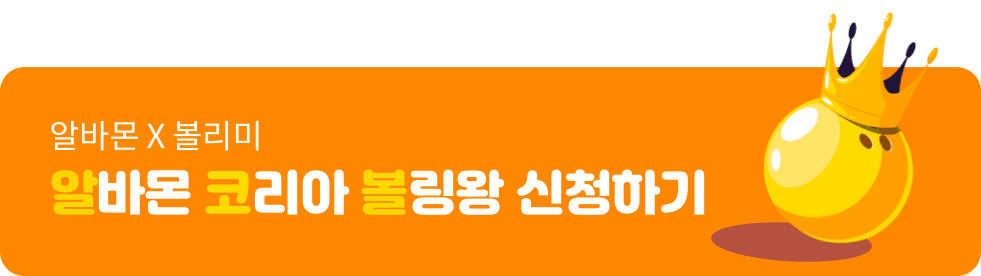
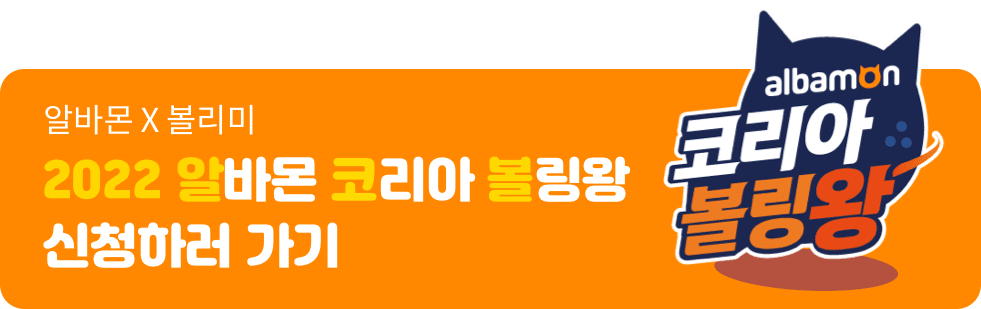
[BOLIMI] 알코볼 배너 S3 추가 및 기타 이슈사항 수정

diff --git a/src/Containers/Albamon/RegistScreen/index.tsx b/src/Containers/Albamon/RegistScreen/index.tsx
@@ -42,8 +42,7 @@ const RegistScreen = ({ route }: PropTypes) => {
     permissionCheck = false,
   } = useSelector((state: AlbamonState) => state.albamon);
 
-  const [gender, setGender] = useState('F');
-  // const [agreement, setAgreement] = useState<boolean>(false);
+  const [gender, setGender] = useState('');
   const [clubName, setClubName] = useState('');
   const [placeName, setPlaceName] = useState('');
   const [name, setName] = useState('');
@@ -65,12 +64,13 @@ const RegistScreen = ({ route }: PropTypes) => {
     setPlaceName(placeDetailName || '');
     setName(userInfo?.username || '');
     onChangePhoneNumber(userInfo?.mobile || '');
+    return () => {
+      dispatch(AlbamonActions.fetchAlbamonReducer({ type: 'permissionCheck', data: false }));
+    };
   }, []);
 
   useEffect(() => {
-    // Keyboard.addListener('keyboardDidShow', () => console.log('show'));
     Keyboard.addListener('keyboardDidHide', () => focusOut());
-    dispatch(AlbamonActions.fetchCompetitionsClubSearch({ query: '' }));
     dispatch(AlbamonActions.fetchCompetitionsPlaceSearch({ query: '' }));
   }, []);
 
@@ -102,7 +102,6 @@ const RegistScreen = ({ route }: PropTypes) => {
       ref_input[index].current?.focus();
     }
   };
-
   // 클럽명 클리어버튼
   let clubNameClearBox: any = null;
   if (clubName !== '' && focusIndex === 0) {
@@ -121,19 +120,33 @@ const RegistScreen = ({ route }: PropTypes) => {
 
   // 참가 볼링장 클리어버튼
   let placeNameClearBox: any = null;
-  if (placeName !== '' && focusIndex === 1) {
-    placeNameClearBox = (
-      <CustomButton onPress={() => onChangePlaceName('')} hitSlop={7}>
-        <View style={{ width: 16, height: 16, marginTop: Platform.OS === 'android' ? 7.5 : 0 }}>
-          <FastImage
-            style={{ width: '100%', height: '100%' }}
-            source={require('@/Assets/Images/Search/icTxtDel.png')}
-            resizeMode={FastImage.resizeMode.cover}
-          />
-        </View>
-      </CustomButton>
-    );
-  }
+
+  placeNameClearBox = (
+    <CustomButton
+      onPress={() => {
+        if (focusIndex === 1) {
+          focusOut();
+        } else {
+          onFocus(1);
+        }
+      }}
+      hitSlop={7}
+    >
+      <View style={{ width: 24, height: 24 }}>
+        <FastImage
+          style={{ width: '100%', height: '100%' }}
+          source={
+            focusIndex === 1
+              ? require('@/Assets/Images/Arrow/icArrowUp.png')
+              : placeName === ''
+              ? require('@/Assets/Images/Arrow/icArrowDwGray.png')
+              : require('@/Assets/Images/Arrow/icArrowDw.png')
+          }
+          resizeMode={FastImage.resizeMode.cover}
+        />
+      </View>
+    </CustomButton>
+  );
 
   // 선수이름 클리어 버튼
   const onClearName = () => {
@@ -182,6 +195,7 @@ const RegistScreen = ({ route }: PropTypes) => {
 
   const selectPlaceName = (item: string) => {
     setPlaceName(item);
+    focusOut();
     Keyboard.dismiss();
   };
 
@@ -205,6 +219,10 @@ const RegistScreen = ({ route }: PropTypes) => {
   const onChangeClubName = (text: string) => {
     setClubName(text);
     debounceFuncClub.current(text);
+    console.log('aklshvhasdv;asd', text);
+    if (text === '') {
+      dispatch(AlbamonActions.fetchAlbamonReducer({ type: 'competitionClubSearchList', data: [] }));
+    }
   };
 
   const onChangePlaceName = (text: string) => {
@@ -218,7 +236,7 @@ const RegistScreen = ({ route }: PropTypes) => {
       const params = {
         query: text,
       };
-      dispatch(AlbamonActions.fetchCompetitionsClubSearch(params));
+      if (text !== '') dispatch(AlbamonActions.fetchCompetitionsClubSearch(params));
     }, 500),
   );
   console.log(competitionClubSearchList);
@@ -508,7 +526,7 @@ const RegistScreen = ({ route }: PropTypes) => {
                               width: width - 48,
                               height: 134,
                               left: 24,
-                              top: 222,
+                              top: 225,
                               // borderWidth: 1,
                               borderBottomWidth: 1,
                               borderLeftWidth: 1,
@@ -630,7 +648,9 @@ const RegistScreen = ({ route }: PropTypes) => {
                             borderColor: focusIndex === 1 ? Color.Primary1000 : Color.Gray300,
                             borderRadius: 3,
                             paddingHorizontal: 12,
-                            paddingVertical: Platform.OS === 'ios' ? 15 : 7.5,
+                            // paddingVertical: Platform.OS === 'ios' ? 14 : 7,
+                            height: 48,
+                            alignItems: 'center',
                             marginTop: 8,
                             flexDirection: 'row',
                             backgroundColor: 'white',
@@ -976,5 +996,4 @@ const RegistScreen = ({ route }: PropTypes) => {
     </View>
   );
 };
-
 export default RegistScreen;

diff --git a/src/Containers/Albamon/AlbamonDetailScreen/index.tsx b/src/Containers/Albamon/AlbamonDetailScreen/index.tsx
@@ -1,21 +1,25 @@
 import React, { useEffect } from 'react';
-import { View, Text, FlatList } from 'react-native';
+import { View, Text, FlatList, Platform, useWindowDimensions } from 'react-native';
 import FastImage from 'react-native-fast-image';
 import { connect, useDispatch, useSelector } from 'react-redux';
 import CustomText from '@/Components/CustomText';
 import Header from '@/Components/Header';
-import { Color } from '@/Assets/Color';
+import { Color, Opacity } from '@/Assets/Color';
 import CustomButton from '@/Components/CustomButton';
 import { CommonState } from '@/Stores/Common/InitialState';
 import { navigate } from '@/Services/NavigationService';
 import { AuthState } from '@/Stores/Auth/InitialState';
 import AlbamonActions from '@/Stores/Albamon/Actions';
 import AuthActions from '@/Stores/Auth/Actions';
+import { numberFormat } from '@/Components/Function';
+import { AlbamonState } from '@/Stores/Albamon/InitialState';
 
 const AlbamonDetailScreen = () => {
   const dispatch = useDispatch();
+  const { width } = useWindowDimensions();
   const { heightInfo } = useSelector((state: CommonState) => state.common);
   const { userInfo, userIdx } = useSelector((state: AuthState) => state.auth);
+  const { competitionsRegistInfo } = useSelector((state: AlbamonState) => state.albamon);
 
   useEffect(() => {
     if (userIdx) {
@@ -34,11 +38,23 @@ const AlbamonDetailScreen = () => {
   console.log('userInfo?.competitionsYn : ', userInfo);
 
   return (
-    <View style={{ flex: 1, backgroundColor: Color.White }}>
-      <Header type={'back'} text={'알바몬 코리아 볼링왕'} />
+    <View style={{ flex: 1, backgroundColor: Color.Point1000 }}>
+      <Header type={'back'} text={'2022 알바몬 코리아 볼링왕'} />
       <FlatList
         data={[0]}
-        renderItem={({ item, index }) => <View></View>}
+        renderItem={({ item, index }) => (
+          <View>
+            <View style={{ width, height: (width / 375) * 724 }}>
+              <FastImage
+                style={{ width: '100%', height: '100%', borderRadius: 5 }}
+                source={{
+                  uri: 'https://s3.ap-northeast-2.amazonaws.com/cdn.bolimi.kr/bolimi/static/event/albamon/bannerDetail%403x.png',
+                }}
+                resizeMode={FastImage.resizeMode.cover}
+              />
+            </View>
+          </View>
+        )}
         keyExtractor={(item, index) => index.toString()}
         initialNumToRender={2}
         maxToRenderPerBatch={1}
@@ -55,7 +71,7 @@ const AlbamonDetailScreen = () => {
           marginBottom: heightInfo.statusHeight,
         }}
       >
-        {userInfo?.competitionsYn === 'Y' || !userIdx ? (
+        {userInfo?.competitionsYn === 'N' || !userIdx ? (
           <CustomButton
             onPress={() => onPressRegist()}
             style={{

diff --git a/src/Containers/Albamon/RegistCompleteScreen/index.tsx b/src/Containers/Albamon/RegistCompleteScreen/index.tsx
@@ -56,7 +56,7 @@ const RegistCompleteScreen = () => {
                 />
               </View>
               <View style={{ alignItems: 'center', marginTop: 20 }}>
-                <CustomText style={{ fontSize: 20, letterSpacing: -0.35 }}>알바몬 코리아 볼링왕</CustomText>
+                <CustomText style={{ fontSize: 20, letterSpacing: -0.35 }}>2022 알바몬 코리아 볼링왕</CustomText>
                 <CustomText style={{ fontSize: 22, letterSpacing: -0.4, fontWeight: 'bold', marginTop: 4 }}>
                   참가신청완료
                 </CustomText>
@@ -78,7 +78,7 @@ const RegistCompleteScreen = () => {
                 >
                   대회명
                 </CustomText>
-                <CustomText style={{ fontSize: 13 }}>알바몬 코리아 볼링왕</CustomText>
+                <CustomText style={{ fontSize: 13 }}>2022 알바몬 코리아 볼링왕</CustomText>
               </View>
               <View style={{ flexDirection: 'row', justifyContent: 'space-between', marginBottom: 12 }}>
                 <CustomText

diff --git a/src/Containers/Place/PlaceDetailScreen/PlaceDetailAlbamonBanner.tsx b/src/Containers/Place/PlaceDetailScreen/PlaceDetailAlbamonBanner.tsx
@@ -38,10 +38,12 @@ const PlaceDetailAlbamonBanner = () => {
 
   return (
     <View style={{ flex: 1, alignItems: 'center' }}>
-      <CustomButton style={{ width: width - 48, height: ((width - 48) / 327) * 92 }} onPress={() => onPressBanner()}>
+      <CustomButton style={{ width: width - 48, height: ((width - 48) / 327) * 103 }} onPress={() => onPressBanner()}>
         <FastImage
           style={{ width: '100%', height: '100%' }}
-          source={require('@/Assets/Images/Albamon/albamonBanner.png')}
+          source={{
+            uri: 'https://s3.ap-northeast-2.amazonaws.com/cdn.bolimi.kr/bolimi/static/event/albamon/albamonBanner%403x.png',
+          }}
           resizeMode={FastImage.resizeMode.cover}
         />
       </CustomButton>

diff --git a/src/Containers/Home/HomeScreen/AlbamonBanner.tsx b/src/Containers/Home/HomeScreen/AlbamonBanner.tsx
@@ -12,7 +12,9 @@ const AlbamonBanner = () => {
       <CustomButton style={{ height: (width / 375) * 186, width }} onPress={() => navigate('AlbamonDetailScreen')}>
         <FastImage
           style={{ width: '100%', height: '100%', borderRadius: 5 }}
-          source={require('@/Assets/Images/Albamon/homeBanner.png')}
+          source={{
+            uri: 'https://s3.ap-northeast-2.amazonaws.com/cdn.bolimi.kr/bolimi/static/event/albamon/homeBanner%403x.png',
+          }}
           resizeMode={FastImage.resizeMode.cover}
         />
       </CustomButton>

diff --git a/src/Containers/Reservation/ReservationScreen/index.tsx b/src/Containers/Reservation/ReservationScreen/index.tsx
@@ -139,7 +139,7 @@ const ReservationScreen = ({ route }: PropTypes) => {
               mobile: reservationInfo?.mobile,
               couponPrice: selectedCoupon?.Coupon?.price,
               couponIdx: selectedCoupon?.idx,
-              competitionsJoinsIdx: reservationInfo?.competitionsJoinsIdx,
+              competitionJoinsIdx: reservationInfo?.competitionJoinsIdx,
             };
       console.log('params : ', params);
       dispatch(ReservationActions.fetchReservation(params));

diff --git a/src/Containers/Albamon/AlbamonPermissionDetailScreen/index.tsx b/src/Containers/Albamon/AlbamonPermissionDetailScreen/index.tsx
@@ -30,7 +30,7 @@ const AlbamonPermissionDetailScreen = ({ route }: PropTypes) => {
 
   return (
     <View style={{ flex: 1, backgroundColor: Color.White, paddingBottom: heightInfo.fixBottomHeight - 1 }}>
-      <Header type={'back'} text={headerTitle} />
+      <Header type={'back'} text={'개인정보 수집 및 이용동의서'} />
       <View style={{ flex: 1, borderTopWidth: 1, borderColor: Color.Gray200 }}>
         <WebView
           style={{ flex: 1 }}
